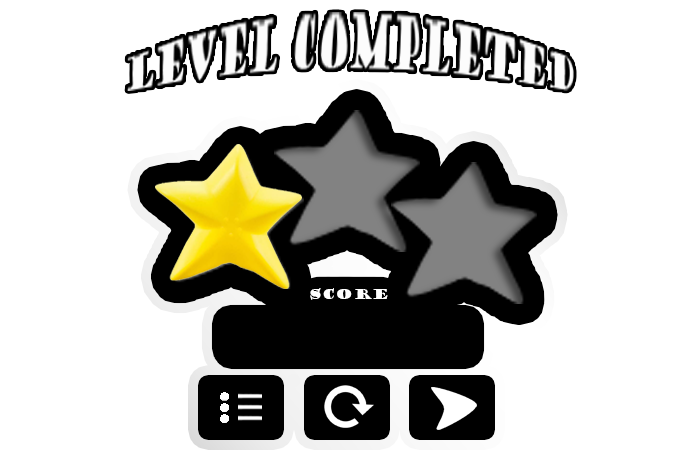
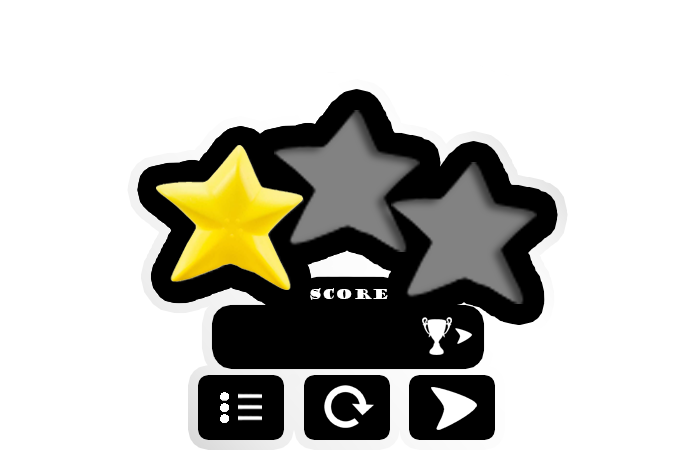
ADDING LADDER

diff --git a/Kaboom/Sources/Hud.cs b/Kaboom/Sources/Hud.cs
@@ -22,6 +22,8 @@ namespace Kaboom.Sources
             NoAction,
             Reload,
             Menu,
+            Ladder,
+            Score,
             Next
         }
 
@@ -264,6 +266,42 @@ namespace Kaboom.Sources
             this.sb_.End();
         }
 
+        public void DrawLadder(GameTime gameTime, List<Ladder.LadderEntry> ladder)
+        {
+            this.sb_.Begin();
+            // Image en fonction du nombre de point (pour etoile)
+            this.sb_.Draw(KaboomResources.Textures["ladderScreen"],
+                                   new Rectangle((this.GraphicsDevice.Viewport.Width / 2) - (this.widthEnd_ / 2),
+                                                 (this.GraphicsDevice.Viewport.Height / 2) - (this.heightEnd_ / 2),
+                                                 this.widthEnd_, this.heightEnd_), Color.White);
+
+            var padding = 0;
+
+            foreach (var ladderEntry in ladder)
+            {
+                if (padding == (100 * 5))
+                    break;
+
+                var scoreS = ladderEntry.Name;
+                var toPadd = 14 - scoreS.Length;
+                if (toPadd > 0)
+                    for (var i = 0; i < toPadd; i++)
+                    {
+                        scoreS += " ";
+                    }
+                scoreS += " " + ladderEntry.Score.ToString(CultureInfo.InvariantCulture);
+                this.sb_.DrawString(KaboomResources.Fonts["default"],
+                                scoreS,
+                                new Vector2(
+                                    ((this.Game.GraphicsDevice.Viewport.Width / 2) - (this.widthEnd_ / 2))
+                                    + (int)((((270.0) / 700.0) * this.widthEnd_)),
+                                    ((this.GraphicsDevice.Viewport.Height / 2) - (this.heightEnd_ / 2))
+                                    + (int)((((260.0 + padding) / 450.0) * this.heightEnd_) / 2)), Color.White);
+                padding += 100;
+            }
+
+            this.sb_.End();
+        }
 
         public void DrawEnd(GameTime gametime)
         {
@@ -277,7 +315,7 @@ namespace Kaboom.Sources
                                              scoreS,
                                              new Vector2(
                                                  ((this.GraphicsDevice.Viewport.Width / 2) - (this.widthEnd_ / 2))
-                                                 + (int)((((260.0 + (14 * scoreS.Length)) / 700) * this.widthEnd_)),
+                                                 + (int)((((240.0 + (14 * scoreS.Length)) / 700) * this.widthEnd_)),
                                                  ((this.GraphicsDevice.Viewport.Height / 2) - (this.heightEnd_ / 2))
                                                  + (int)((325.0 / 450.0) * this.heightEnd_)), Color.White);
                 this.sb_.End();
@@ -309,7 +347,29 @@ namespace Kaboom.Sources
                    ((this.Game.GraphicsDevice.Viewport.Width / 2) - (this.widthEnd_ / 2)) +
                    (int)(((192.0 + 109.0 + 109.0) / 700.0) * this.widthEnd_), ((this.Game.GraphicsDevice.Viewport.Height / 2) - (this.heightEnd_ / 2)) +
                    (int)((373.0 / 450.0) * this.heightEnd_), (int)((109.0 / 700.0) * this.widthEnd_), (int)((82.0 / 450.0) * this.heightEnd_));
-            return next.Contains(new Point((int)pos.X, (int)pos.Y)) ? EHudEndAction.Next : EHudEndAction.NoAction;
+            if (next.Contains(new Point((int)pos.X, (int)pos.Y)))
+                return EHudEndAction.Next;
+ 
+            var ladder =
+                          new Rectangle(
+                   ((this.Game.GraphicsDevice.Viewport.Width / 2) - (this.widthEnd_ / 2)) +
+                   (int)(((402) / 700.0) * this.widthEnd_), ((this.Game.GraphicsDevice.Viewport.Height / 2) - (this.heightEnd_ / 2)) +
+                   (int)((305.0 / 450.0) * this.heightEnd_), (int)((109.0 / 700.0) * this.widthEnd_), (int)((82.0 / 450.0) * this.heightEnd_));
+            if (ladder.Contains(new Point((int)pos.X, (int)pos.Y)))
+                return EHudEndAction.Ladder;
+
+            // square 130w 51h
+            // pos 388w 59h
+            var score =
+                         new Rectangle(
+                  ((this.Game.GraphicsDevice.Viewport.Width / 2) - (this.widthEnd_ / 2)) +
+                  (int)(((388) / 700.0) * this.widthEnd_), ((this.Game.GraphicsDevice.Viewport.Height / 2) - (this.heightEnd_ / 2)) +
+                  (int)((59 / 450.0) * this.heightEnd_), (int)((130.0 / 700.0) * this.widthEnd_), (int)((51.0 / 450.0) * this.heightEnd_));
+            if (score.Contains(new Point((int)pos.X, (int)pos.Y)))
+                return EHudEndAction.Score;
+
+            return EHudEndAction.NoAction;
+
         }
 
 

diff --git a/Kaboom/Sources/MainGame.cs b/Kaboom/Sources/MainGame.cs
@@ -32,6 +32,8 @@ namespace Kaboom.Sources
         private Hud hud_;
         private readonly CurrentElement currentBomb_;
         private bool ended_;
+        private Ladder ladder_;
+
  
 
         /// <summary>
@@ -48,6 +50,13 @@ namespace Kaboom.Sources
             this.level_ = level;
             ended_ = false;
             this.em_ = new Event();
+            this.ladder_ = new Ladder("test.xml"); // TODO : test
+            this.ladder_.AddEntry(1000000, "toto1");
+            this.ladder_.AddEntry(100, "toto3");
+            this.ladder_.AddEntry(100553, "toto3");
+            this.ladder_.AddEntry(1030, "bite");
+            this.ladder_.AddEntry(167400, "totobba");
+
             Content.RootDirectory = "Content";
         }
 
@@ -92,6 +101,7 @@ namespace Kaboom.Sources
             KaboomResources.Textures["goal"] = Content.Load<Texture2D>("GoalSheet");
             KaboomResources.Textures["checkpoint"] = Content.Load<Texture2D>("CheckPoint");
             KaboomResources.Textures["endScreen"] = Content.Load<Texture2D>("endScreen");
+            KaboomResources.Textures["ladderScreen"] = Content.Load<Texture2D>("ladderScreen");
 
             KaboomResources.Sprites["Bomb"] = new SpriteSheet(KaboomResources.Textures["BombSheet"], new[] { 8, 18 }, 2, 20);
             KaboomResources.Sprites["BombUltimate"] = new SpriteSheet(KaboomResources.Textures["BombSheetUltimate"], new[] { 8, 18 }, 2, 20);
@@ -160,6 +170,12 @@ namespace Kaboom.Sources
                  {
                      case Hud.EHudEndAction.Menu:
                          this.Exit();
+                         break;
+                     case Hud.EHudEndAction.Ladder:
+                         ladder_.IsDisplay = true;
+                         break;
+                     case Hud.EHudEndAction.Score:
+                         ladder_.IsDisplay = false;
                          break;
                      case Hud.EHudEndAction.Reload:
                          break;
@@ -302,8 +318,13 @@ namespace Kaboom.Sources
 
             base.Draw(gameTime);
 
-           if (ended_)
-               hud_.DrawEnd(gameTime);
+            if (ended_)
+            {
+                if (ladder_.IsDisplay)
+                    hud_.DrawLadder(gameTime, ladder_.GetLadder());
+                else
+                    hud_.DrawEnd(gameTime);
+            }
         }
 
         /// <summary>
@@ -313,6 +334,8 @@ namespace Kaboom.Sources
         /// <param name="ea"></param>
         public void ManageEndGame(object sender, EventArgs ea)
         {
+            if (ended_ == false)
+                this.ladder_.AddEntry(this.hud_.GameInfos.Score, "Mon Score");
             // TODO : Manage end game here
             ended_ = true;
             //this.Exit();

diff --git a/Kaboom/Sources/Ladder.cs b/Kaboom/Sources/Ladder.cs
@@ -1,0 +1,93 @@
+using System;
+using System.Collections.Generic;
+using System.IO;
+using System.Linq;
+using System.Xml.Serialization;
+using Kaboom.Serializer;
+using System.Text;
+using Microsoft.Xna.Framework;
+using Microsoft.Xna.Framework.Graphics;
+
+namespace Kaboom.Sources
+{
+    internal class Ladder
+    {
+
+        public class LadderEntry
+        {
+            public string Name { get; set; }
+            public int Score { get; set; }
+            public bool Default { get; set; }
+
+            public LadderEntry(string name, int score, bool dflt = false)
+            {
+                Name = name;
+                Score = score;
+                Default = dflt;
+            }
+        }
+
+        private List<LadderEntry> ladder_;
+        private readonly string mapName_;
+        public bool IsDisplay;
+
+        public Ladder(string mapName)
+        {
+            mapName_ = mapName;
+            ladder_ = new List<LadderEntry>();
+            IsDisplay = false;
+            //Todo : Load current ladder from xml file
+        }
+
+
+        public List<LadderEntry> GetLadder()
+        {
+            return this.ladder_;
+        }
+
+        private void Sort()
+        {
+            ladder_.Sort((l1, l2) =>
+            {
+                if (l1.Score < l2.Score) return 1;
+                if (l1.Score > l2.Score) return -1;
+                return 0;
+            }
+                );
+        }
+
+        public void AddEntry(int score, string name)
+        {
+            ladder_.Add(new LadderEntry(name, score));
+
+            var numb = ladder_.Count(ladderEntry => !ladderEntry.Default);
+
+            if (numb > 5)
+            {
+                var min = int.MaxValue;
+                foreach (var ladderEntry in ladder_.Where(ladderEntry => !ladderEntry.Default && ladderEntry.Score < min))
+                {
+                    min = ladderEntry.Score;
+                }
+                ladder_.RemoveAll(l => !l.Default && (l.Score <= min));
+            }
+            Sort();
+        }
+
+        public void ResetLadder()
+        {
+            ladder_.RemoveAll((l) => !(l.Default));
+            Sort();
+        }
+
+        public void Serialize()
+        {
+            var serializer = new XmlSerializer(typeof(Ladder));
+            using (var fs = TitleContainer.OpenStream(mapName_))
+            {
+                serializer.Serialize(fs, this);
+            }
+        }
+
+    }
+}
